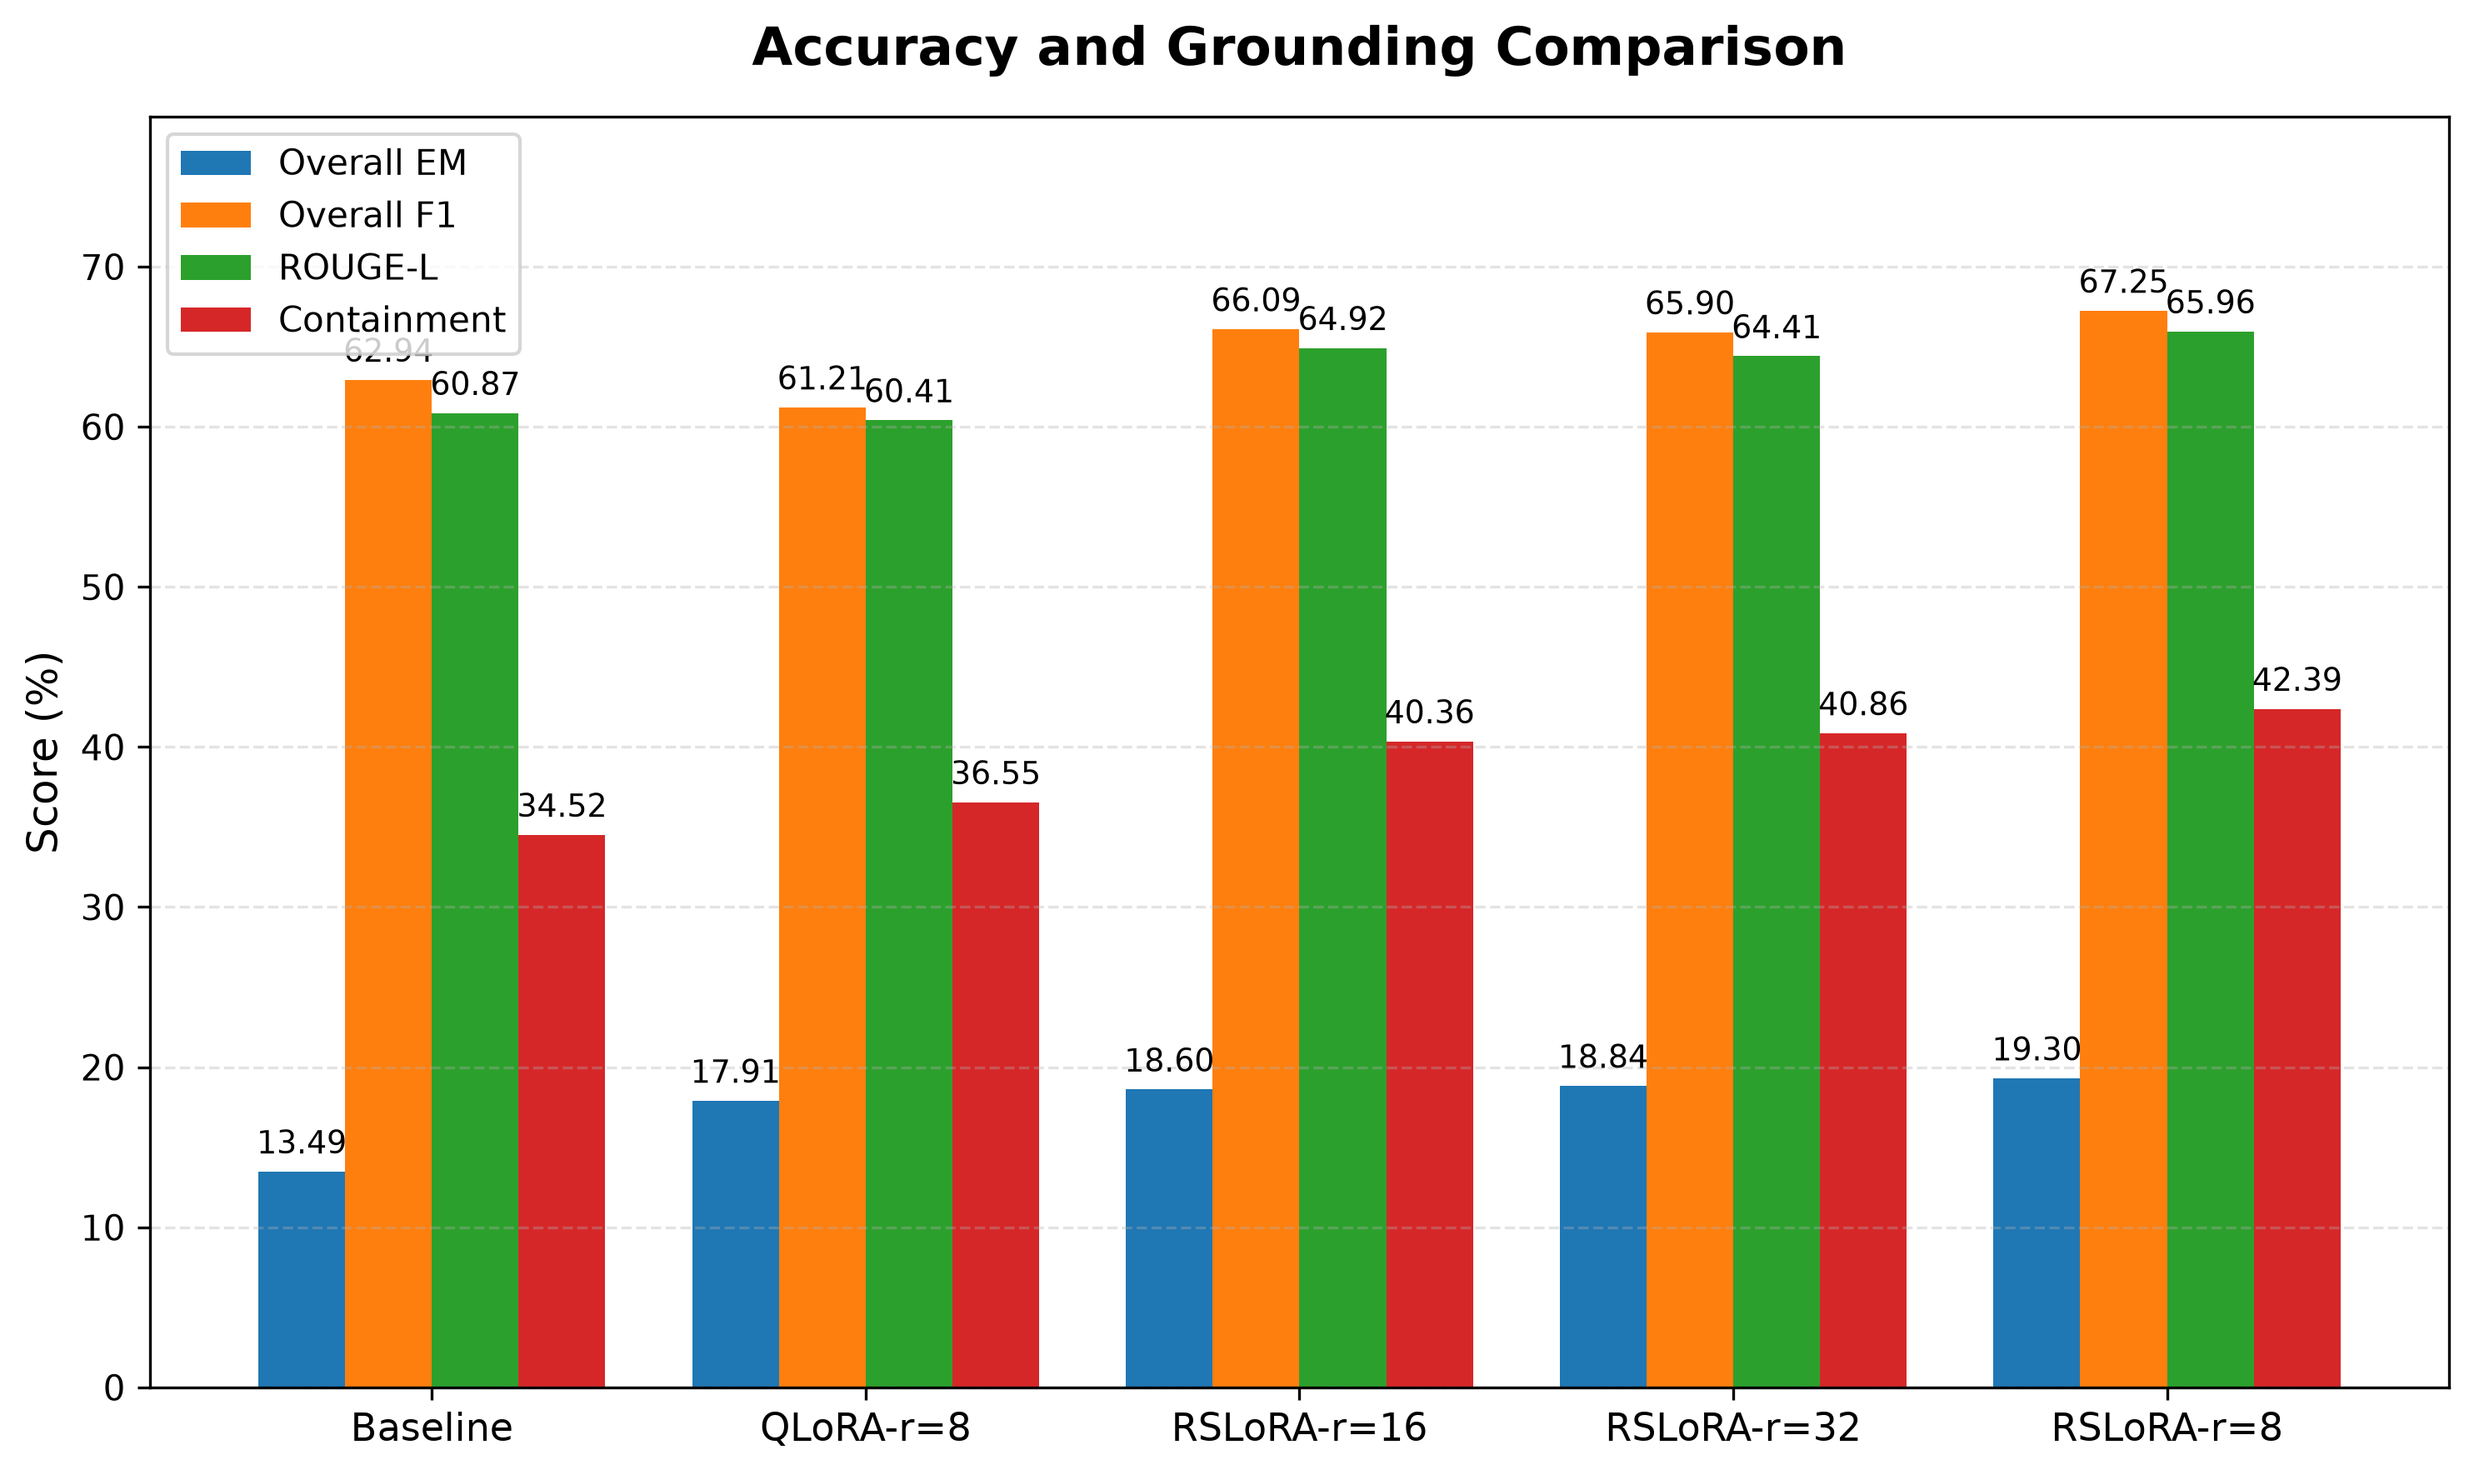
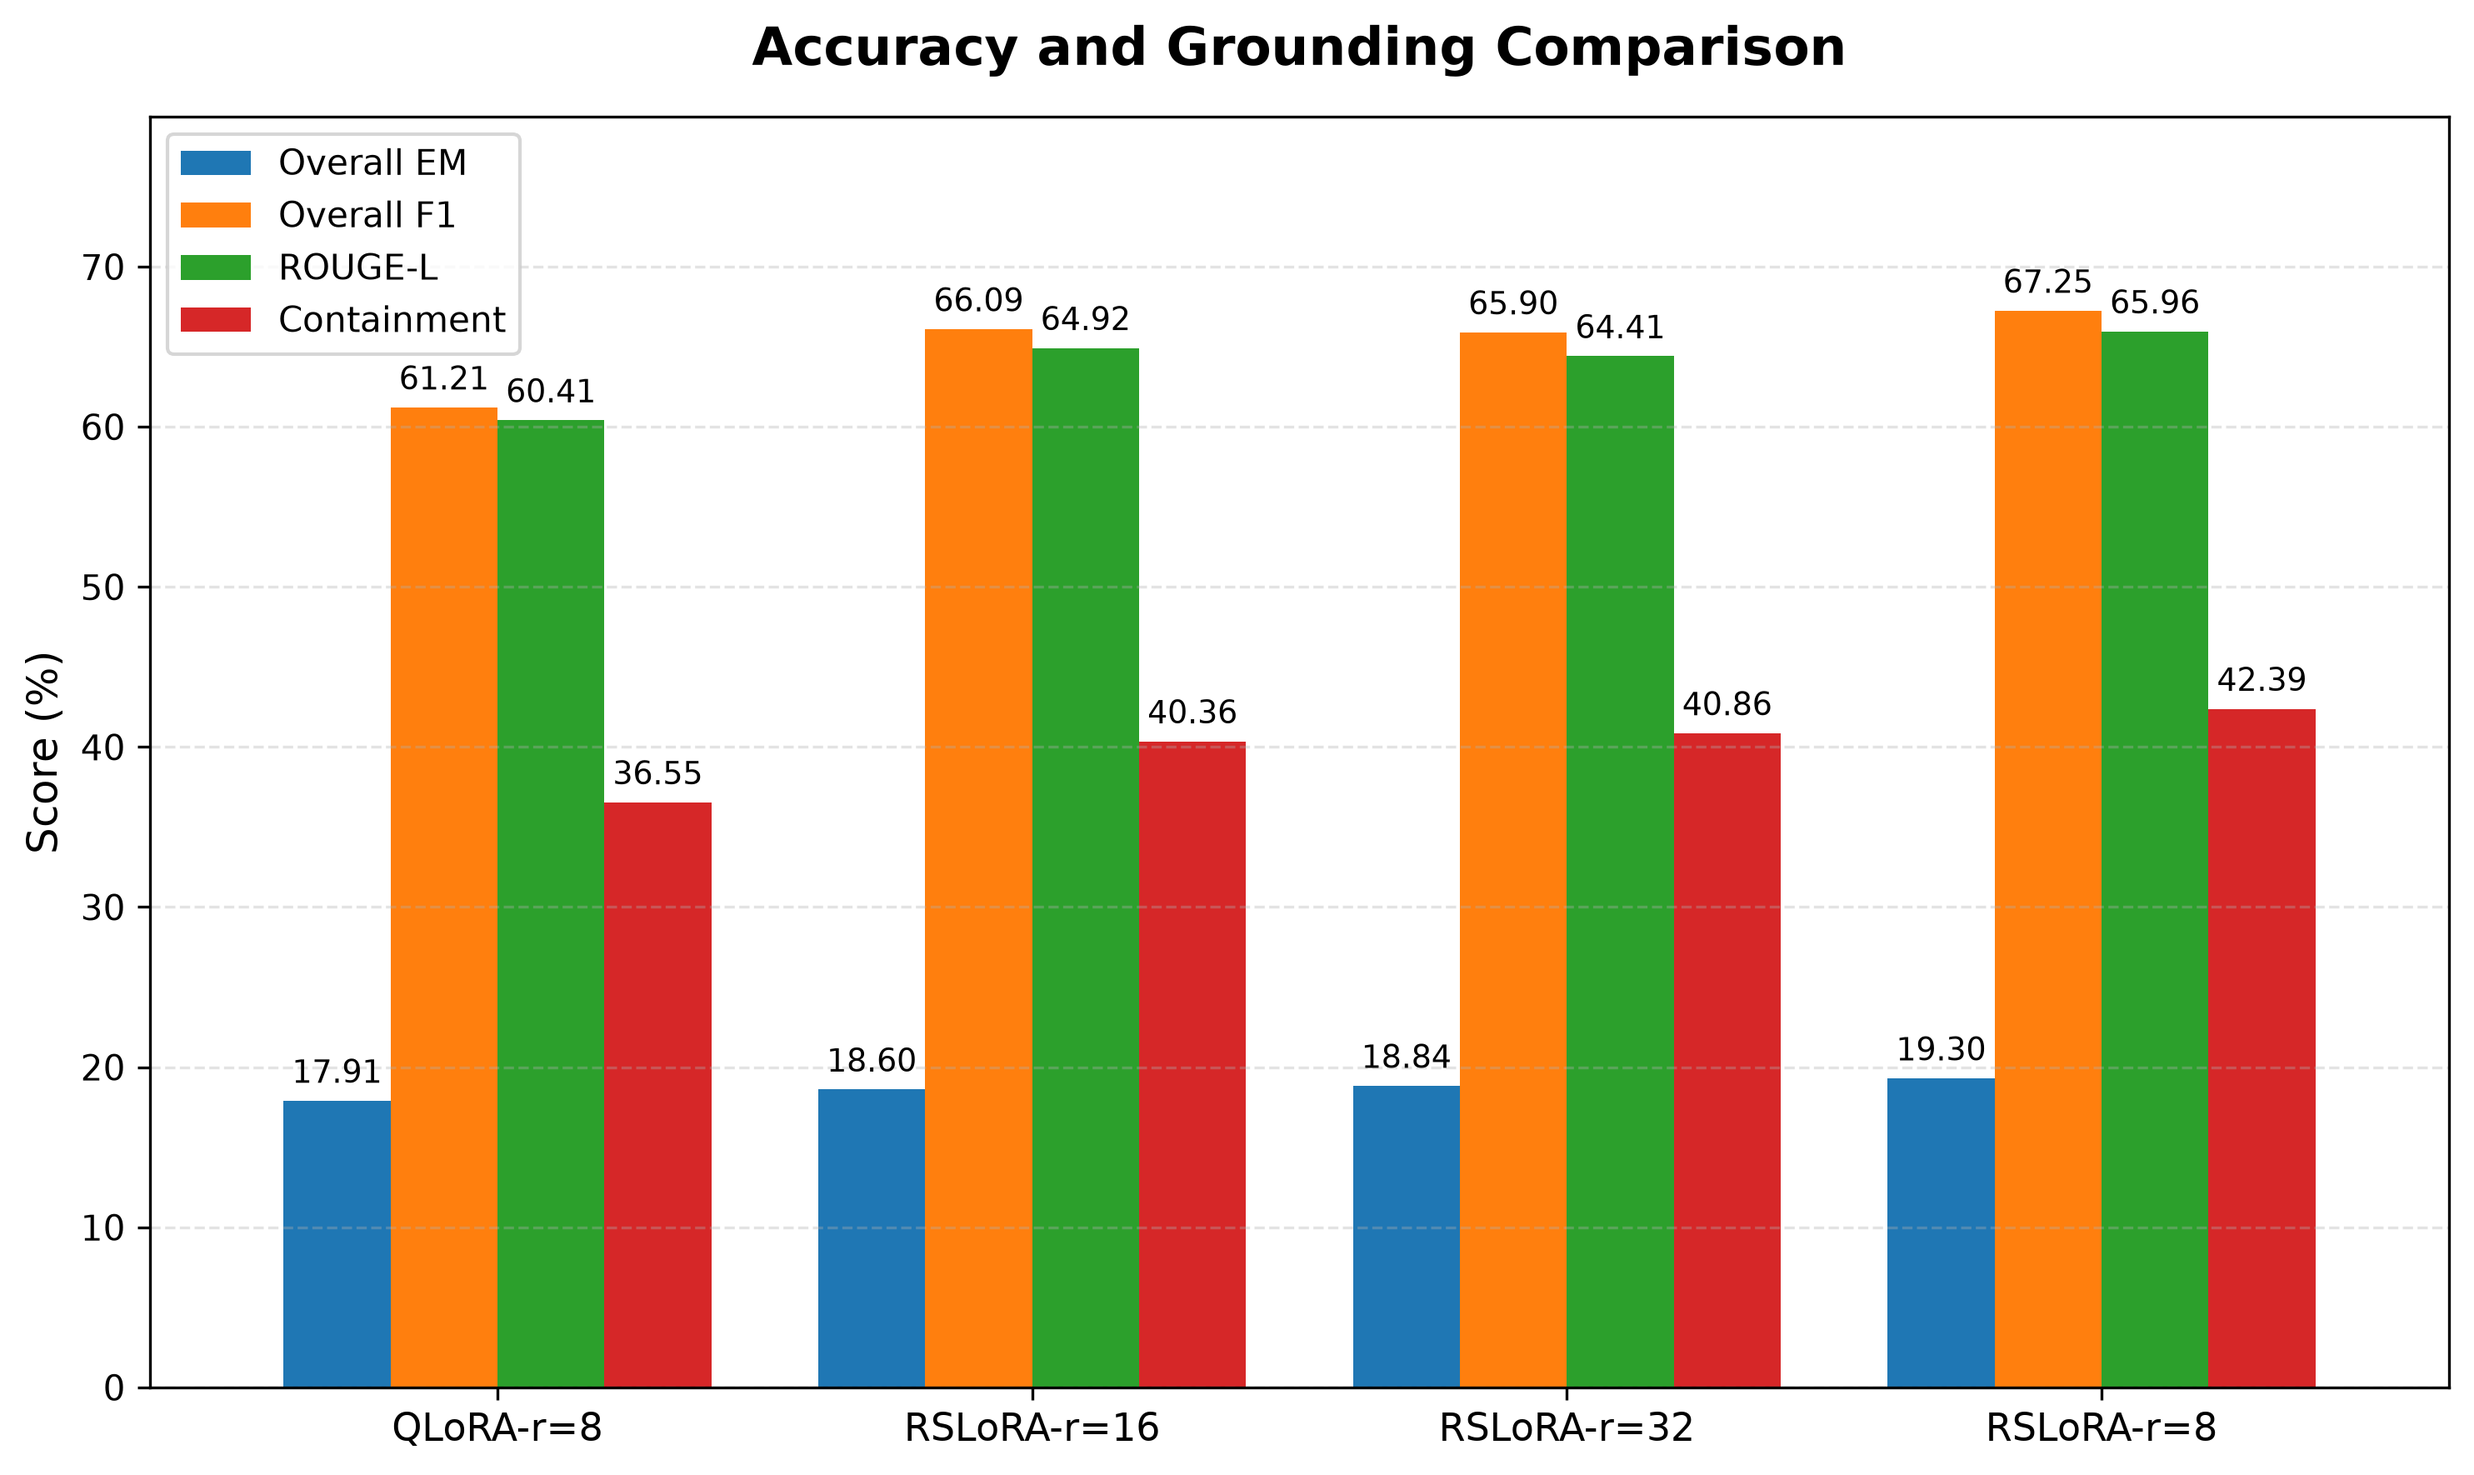
Update visualization for model configuration results

diff --git a/aggregate_benchmark.py b/aggregate_benchmark.py
@@ -35,43 +35,68 @@ REPORT_OUTPUT_DIR.mkdir(parents=True, exist_ok=True)
 # UTILITIES
 # ==========================================================
 
-def infer_method(folder_name: str) -> str:
+def is_peft_domain_benchmark(folder_name: str) -> bool:
+    """
+    Select only PEFT fine-tuning benchmarks on the domain test set.
+
+    Included
+    --------
+    qwen3_vl_4b_finetuned(qlora)_domain_test
+    qwen3_vl_4b_finetuned(rs8)_domain_test
+    qwen3_vl_4b_finetuned(rs16)_domain_test
+    qwen3_vl_4b_finetuned(rs32)_domain_test
+    """
+
     name = folder_name.lower()
 
-    if "baseline" in name:
-        return "Baseline"
+    # must be domain benchmark
+    if "domain_test" not in name:
+        return False
 
-    if "finetuned(qlora)" in name or "(qlora)" in name:
+    # must be finetuned
+    if "finetuned" not in name:
+        return False
+
+    # exclude other benchmark types
+    excluded = [
+        "baseline",
+        "rag",
+        "no_context",
+        "viquad",
+        "web",
+    ]
+
+    if any(x in name for x in excluded):
+        return False
+
+    # must be qlora or rslora
+    return (
+        "(qlora)" in name
+        or re.search(r"rs\d+", name) is not None
+    )
+
+def infer_method(folder_name: str):
+
+    name = folder_name.lower()
+
+    if "(qlora)" in name:
         return "QLoRA"
 
     if re.search(r"rs\d+", name):
         return "RSLoRA"
 
-    if "lora" in name:
-        return "LoRA"
-
     return "Unknown"
 
 
-def infer_version(folder_name: str) -> str:
-    """
-    Extract LoRA rank/version.
+def infer_version(folder_name: str):
 
-    baseline -> "-"
-    qlora    -> "r=8" (or "-" if you don't want to show rank)
-    rs8      -> "r=8"
-    rs16     -> "r=16"
-    rs32     -> "r=32"
-    """
     name = folder_name.lower()
 
-    if "baseline" in name:
-        return "-"
-
     if "(qlora)" in name:
-        return "r=8"      # hoặc "-" nếu QLoRA là baseline
+        return "r=8"
 
     m = re.search(r"rs(\d+)", name)
+
     if m:
         return f"r={m.group(1)}"
 
@@ -85,7 +110,11 @@ def shorten_model(model_path: str) -> str:
 # MAIN
 # ==========================================================
 
-summary_files = sorted(BENCHMARK_OUTPUT_DIR.rglob(SUMMARY_FILENAME))
+summary_files = sorted(
+    f
+    for f in BENCHMARK_OUTPUT_DIR.rglob(SUMMARY_FILENAME)
+    if is_peft_domain_benchmark(f.parent.name)
+)
 
 if not summary_files:
     raise FileNotFoundError(

diff --git a/benchmark_reports/benchmark_comparison.md b/benchmark_reports/benchmark_comparison.md
@@ -1,6 +1,5 @@
 | Model                                       | Method   | Version   |   Overall EM |   Overall F1 |   ROUGE-L |   Containment |   False Refusal |   Correct Refusal |   Hallucination |   Latency (s) |   Throughput (samples/s) |
 |:--------------------------------------------|:---------|:----------|-------------:|-------------:|----------:|--------------:|----------------:|------------------:|----------------:|--------------:|-------------------------:|
-| Qwen3-VL-4B-Instruct                        | Baseline | -         |      13.4884 |      62.9408 |   60.8653 |       34.5178 |          0.5076 |           61.1111 |         22.2222 |        0.0483 |                  20.7051 |
 | qwen3_examassist_merged_4b_qlora_domain     | QLoRA    | r=8       |      17.907  |      61.2138 |   60.4106 |       36.5482 |          1.0152 |           88.8889 |          5.5556 |        0.0211 |                  47.2815 |
 | qwen3_examassist_merged_4b_rslora_domain_v5 | RSLoRA   | r=16      |      18.6047 |      66.0922 |   64.9226 |       40.3553 |          1.7766 |           91.6667 |          5.5556 |        0.0281 |                  35.5353 |
 | qwen3_examassist_merged_4b_rslora_domain_v4 | RSLoRA   | r=32      |      18.8372 |      65.9006 |   64.412  |       40.8629 |          1.7766 |           91.6667 |          2.7778 |        0.0281 |                  35.5636 |
